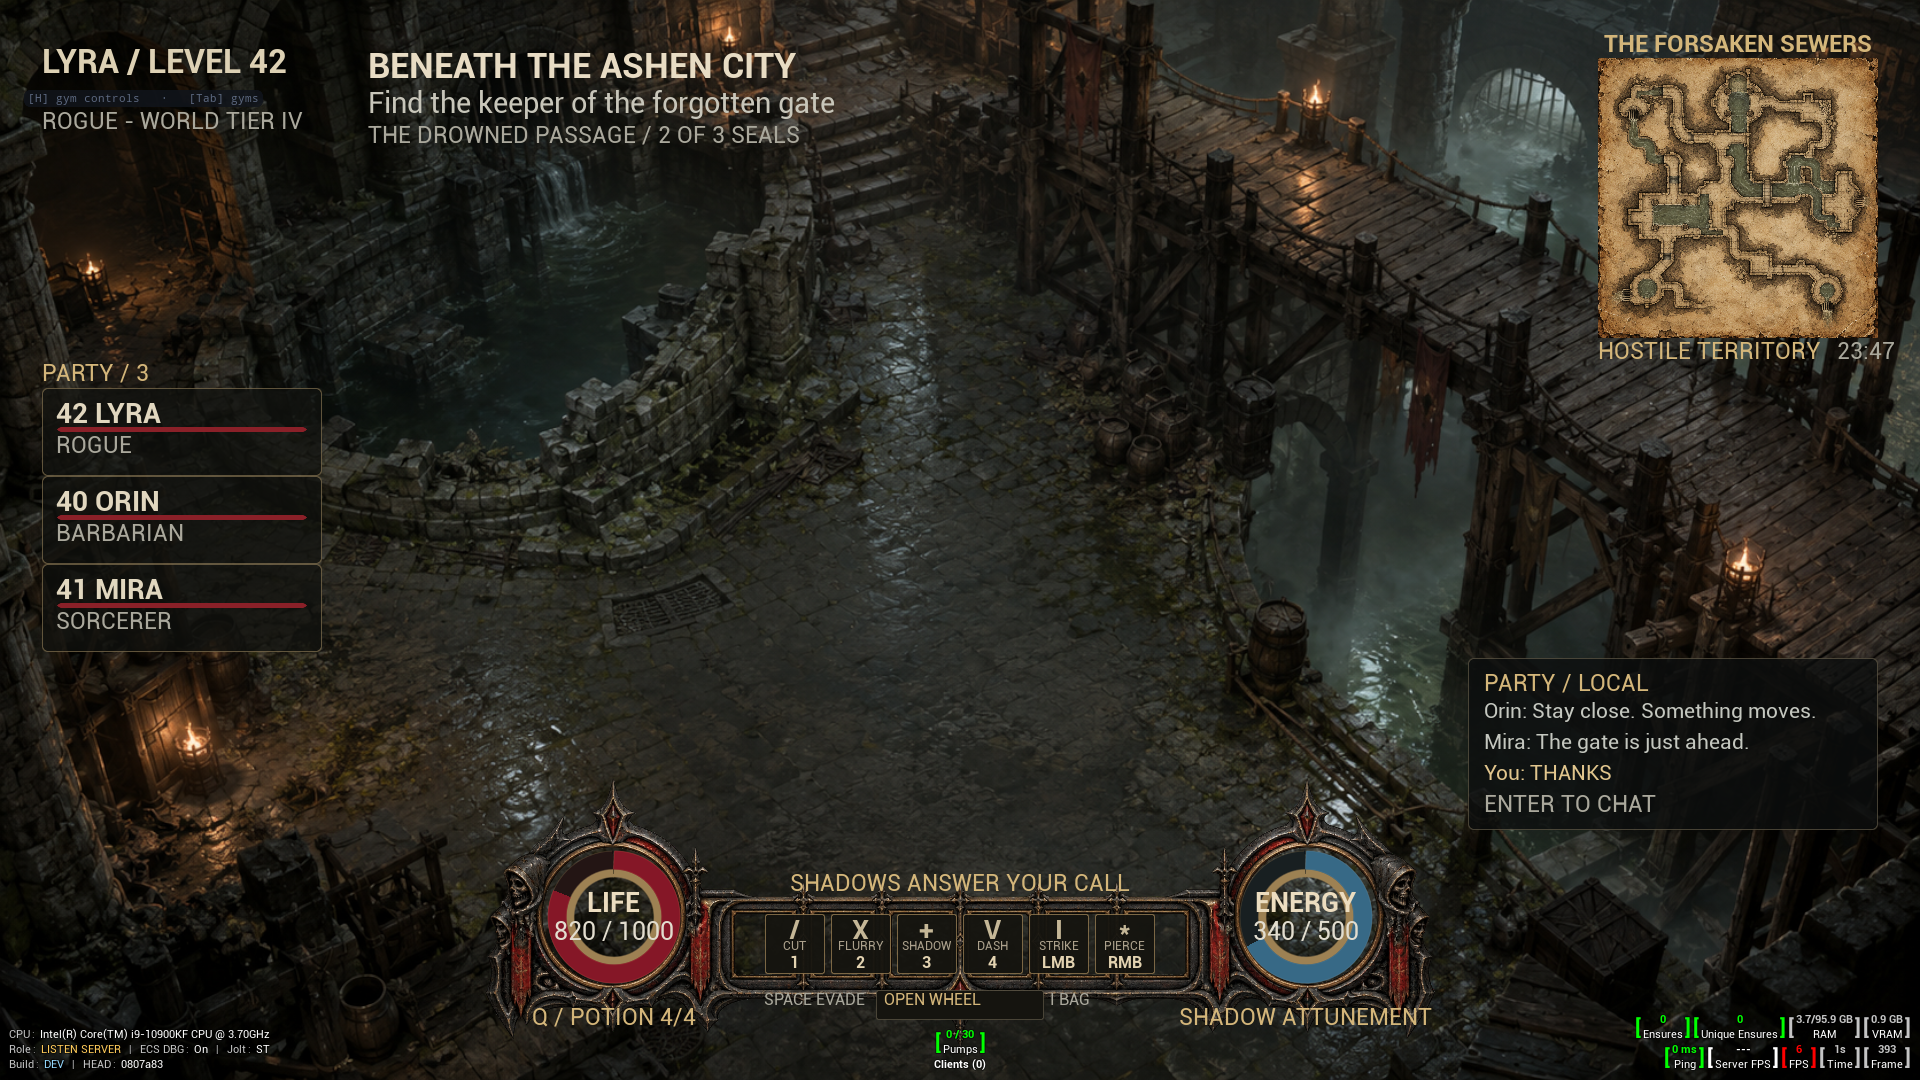
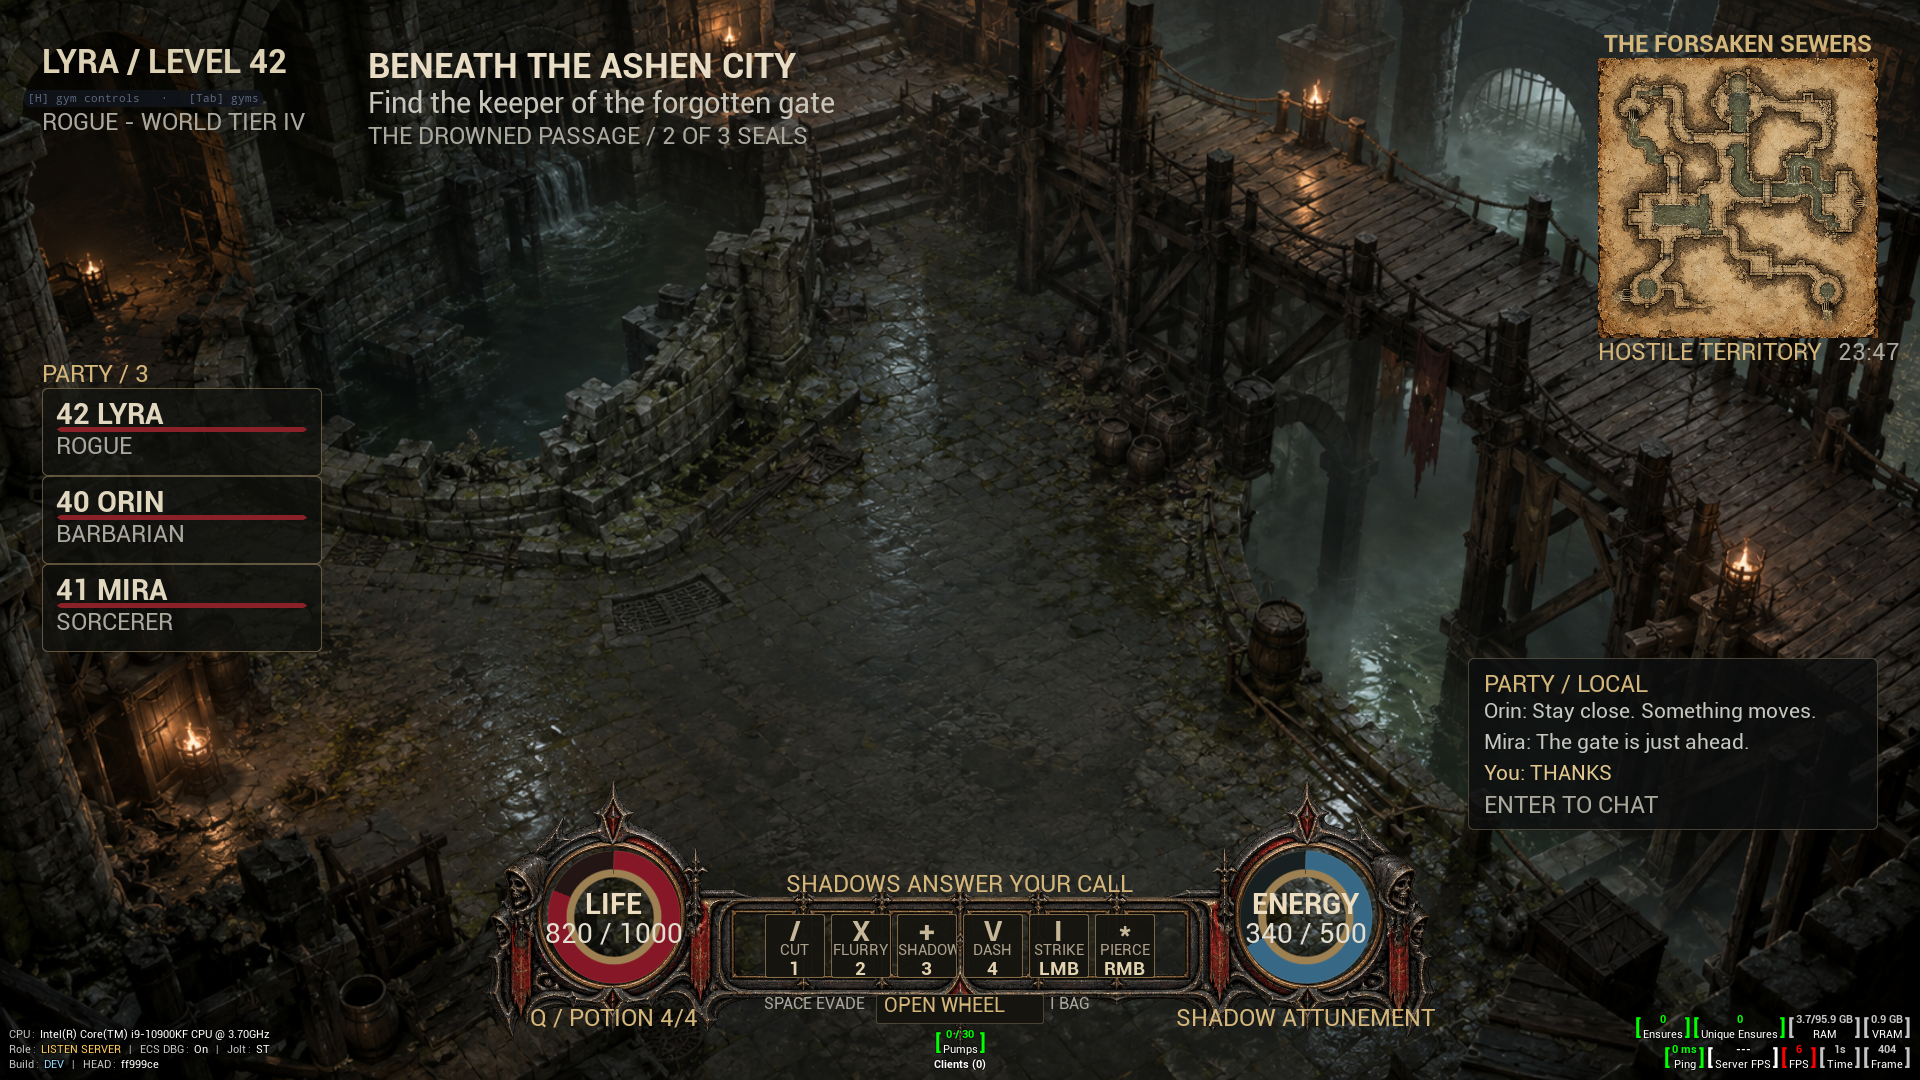
docs(ui): refresh HUD captures and pipeline findings
Preserve final native captures at three resolutions and document the resolved selector preflight gap, configurable sector typography, and current verification. The selected DX11 UiAuthoring gate passed 35/35; resolution-aware reflow, DX12 startup, and cooked packaging remain unverified.

diff --git a/Documentation/UI/DarkFantasyHudProof/pipeline-findings.md b/Documentation/UI/DarkFantasyHudProof/pipeline-findings.md
@@ -4,7 +4,7 @@
 
 The existing Mission Board script provides the retained session, mount, reload and art-shell pattern. The existing power wheel provides the `radial-selector` collection schema and content slot. This proof combines them with the shared reflected HUD controls. It required `FCk_UI_AuthoredSession_Config.Set_RegisterHudControls`, `.Set_RegisterRadialControls`, `.Set_Images`, and `FCk_UI_AuthoredImage.Set_Texture`. Text scalar `Selection` is also the radial selection binding. `ItemActions` route native select/activate StringChanged payloads to the session's `OnItemAction` delegate.
 
-The native HUD registration supports `hud-meter value-bind` and `hud-graphic image-bind`. Health and mana are named Number scalars. The radial schema is exactly actor:Text, glyph:Text, angle:Number, cooldown:Number, enabled:Bool, queued:Bool. All seed angles differ by 45 degrees including the 315-to-0 seam, exceeding the 15-degree minimum. The fixture uses native sector rendering through `-ck-radial-sector-mode: 1`, including numeric glyph and actor label text; default mode retains the earlier power-wheel rendering.
+The native HUD registration supports `hud-meter value-bind` and `hud-graphic image-bind`. Health and mana are named Number scalars. The radial schema is exactly actor:Text, glyph:Text, angle:Number, cooldown:Number, enabled:Bool, queued:Bool. All seed angles differ by 45 degrees including the 315-to-0 seam, exceeding the 15-degree minimum. The fixture uses native sector rendering through `-ck-radial-sector-mode: 1`, including numeric glyph and actor label text with authored font sizes; default mode retains the earlier power-wheel rendering.
 
 ## Failure and state behavior
 
@@ -21,11 +21,11 @@ Damage and healing reject negative or nonfinite amounts; mana change rejects non
 - Party list, quest progress, hotbar skill glyphs, chat history and clock are illustrative editable source content. ASCII glyphs are used to avoid missing icon-font dependencies.
 - The default sans-serif family avoids an external font import. Typography resembles the reference hierarchy without reproducing its proprietary font.
 - The meters use the native radial-meter renderer, which shows an arc rather than a simulated liquid fill inside a glass orb.
-- Native wheel keyboard selection and activation, runtime startup, source rejection, retained image ownership, teardown and scaled layout passed the focused PIE checks. The 720p capture is visually small because a fixed 1920x1080 authored canvas scales to two-thirds; a production HUD needs resolution-aware type sizing and safe-zone rules.
-- The static contract validator accepts selector forms such as `#id` that the runtime's restricted CSS grammar rejects. The proof used class selectors after discovering that mismatch; static source validation needs to mirror runtime grammar.
+- Native wheel keyboard selection and activation, runtime startup, source rejection, retained image ownership, teardown and scaled layout passed the focused PIE checks. Authored sector font sizes and adjusted HUD typography improved the 720p capture, but the fixed 1920x1080 canvas still scales fine hotbar text to two-thirds. A production HUD needs resolution-aware type sizing and safe-zone rules.
+- The static contract validator originally accepted selector forms such as `#id` that the runtime's restricted CSS grammar rejects. Its top-level selector preflight now rejects `#id`, compound, and grouped selectors, with focused positive and negative checks. It still leaves CSS declarations, values, bindings and runtime admission to the framework parser.
 - The authored overlay needed an explicit separate wheel layer to center the wheel independently of the left party and right chat columns. The current row/flex grammar lacks a more direct anchoring constraint.
 - The radial collection schema already held numeric glyph and actor label fields, but the earlier native renderer drew its own abstract glyph. Sector mode needed a generic native renderer extension to show the authored record labels. That is a real pipeline capability gap, not something HTML/CSS styling alone could solve.
 - The reference's dynamic world map, active skills, party state, chat feed, and liquid-filled glass orbs are beyond this fixture. They require gameplay adapters, updated art/control rendering and animation work; this proof does not establish those behaviors.
-- DX12 rendered testing hit an engine shader-frequency assertion before usable evidence. DX11 real-renderer tests passed; the project's DX12 default was restored after testing.
+- DX12 rendered testing hit an engine shader-frequency assertion during editor startup, before UI tests executed. DX11 real-renderer tests passed; the project's DX12 default was restored after testing. The cause of the DX12 shader mismatch is unproven.
 - Resources imported from disk need the caller's NonUFS staging entries for packaged builds; no cooked-build evidence is established.
 - The 35-test `UiAuthoring` compatibility gate is focused coverage, not repository-wide regression coverage.

diff --git a/Documentation/UI/DarkFantasyHudProof/README.md b/Documentation/UI/DarkFantasyHudProof/README.md
@@ -14,4 +14,4 @@ The bottom HUD is centered at 960 authored pixels to match the ornament, with 26
 
 Gym panel keys: 1 toggles the wheel, 2 damages, 3 heals, 4 spends mana, 5 selects the next interaction, 6 activates, 7 resets, 8 reloads source, and 9 attempts an invalid source. The wheel supports its native pointer/keyboard selection and activation. Center CONFIRM and CLOSE and the hotbar's OPEN WHEEL button dispatch real actions. The hotbar skills, inventory/evade hints, minimap time, party health strips and chat entry hint are illustrative static content, not gameplay systems.
 
-The canonical `validate_authoring_contract.py` check passes with 100 authored IDs, 50 referenced/declared CSS classes, and 100 contract nodes matched. The contract inventory records each exact id, tag, parentId and scope; radial runtime entries are collection records rather than markup nodes. The Development editor build passed (`Saved/Logs/DarkFantasy-Final-Build-12.log`). A real-renderer DX11 compatibility run passed all 35 selected `UiAuthoring` tests (`Saved/Logs/DarkFantasy-Final-Compatibility-15.log`), including the three new tests, the existing power wheel and Pause Menu PIE. A preceding combined run had one intermittent Pause Menu failure; that test subsequently passed in isolation and in the full 35-test rerun. After the last text-fit edit, the three DarkFantasy tests passed again (`Saved/Logs/DarkFantasy-Final-Focused-16.log`). Native [720p](Captures/open-1280x720.png), [1080p](Captures/open-1920x1080.png), [1440p](Captures/open-2560x1440.png), and [closed-wheel](Captures/closed-1920x1080.png) screenshots were inspected and preserved. The captures include CkTests diagnostic overlays, which are outside this HUD. DX12 rendered verification remains open because the engine asserted in shader loading on a DX12 test boot; the project configuration remains DX12. No cooked packaging test has been run. See [pipeline findings](pipeline-findings.md), [widget inventory](widget-breakdown.md), and [source contract](design-contract.json).
+The canonical `validate_authoring_contract.py` check passes with 100 authored IDs, 50 referenced/declared CSS classes, and 100 contract nodes matched. Its focused selector tests pass 7/7, including rejection of `#id`, compound, and grouped selectors. The contract inventory records each exact id, tag, parentId and scope; radial runtime entries are collection records rather than markup nodes. The incremental Development editor build passed (`Saved/Logs/DarkFantasy-Readability-BuildTest-17.log`); that combined run ended during Editor startup without a test result. A subsequent real-renderer DX11 focused run passed the three DarkFantasy tests (`Saved/Logs/DarkFantasy-Readability-Refined-19.log`), and the final compatibility run passed all 35 selected `UiAuthoring` tests (`Saved/Logs/DarkFantasy-Readability-Compatibility-20.log`), including the existing power wheel and Pause Menu PIE. Native [720p](Captures/open-1280x720.png), [1080p](Captures/open-1920x1080.png), [1440p](Captures/open-2560x1440.png), and [closed-wheel](Captures/closed-1920x1080.png) screenshots were inspected and preserved. The captures include CkTests diagnostic overlays, which are outside this HUD. DX12 rendered verification remains open because the engine asserted during shader loading before UI tests on a prior DX12 boot; the project configuration remains DX12. No cooked packaging test has been run. See [pipeline findings](pipeline-findings.md), [widget inventory](widget-breakdown.md), and [source contract](design-contract.json).
